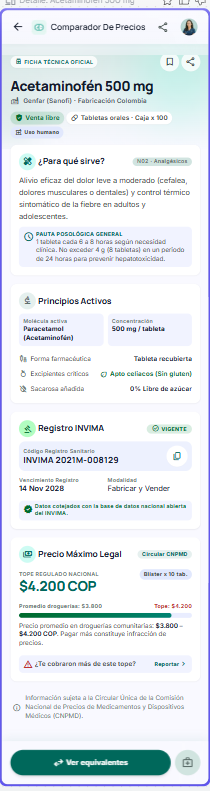
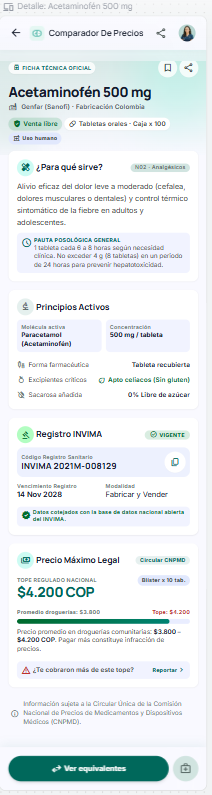
docs: enlace público de Stitch y captura de Detalle corregida

Changed region(s): [[0.0, 0.0, 1.0, 1.0], [0.0571, 0.3641, 0.9143, 0.8496], [0.0571, 0.8799, 0.8857, 0.9102]]

diff --git a/README.md b/README.md
@@ -8,7 +8,7 @@ Proyecto de diseño y arquitectura de una aplicación móvil Android. Este repos
 
 | | Enlace |
 |---|---|
-| 🎨 Prototipo en Google Stitch | **[PEGAR ENLACE PÚBLICO DE STITCH]** |
+| 🎨 Prototipo en Google Stitch | https://stitch.withgoogle.com/projects/2507496012775443897 |
 | 🎬 Video de presentación | **[PEGAR ENLACE DE YOUTUBE / DRIVE]** |
 
 ## 👥 Equipo
@@ -146,7 +146,7 @@ La API entrega una fila por cada combinación de *presentación + principio acti
 
 ## 📱 Hito 3 · Pantallas y flujo de navegación
 
-🎨 **Prototipo interactivo en Google Stitch:** **[PEGAR ENLACE PÚBLICO DE STITCH]**
+🎨 **Prototipo interactivo en Google Stitch:** **https://stitch.withgoogle.com/projects/2507496012775443897**
 
 ### Flujo de navegación
 
